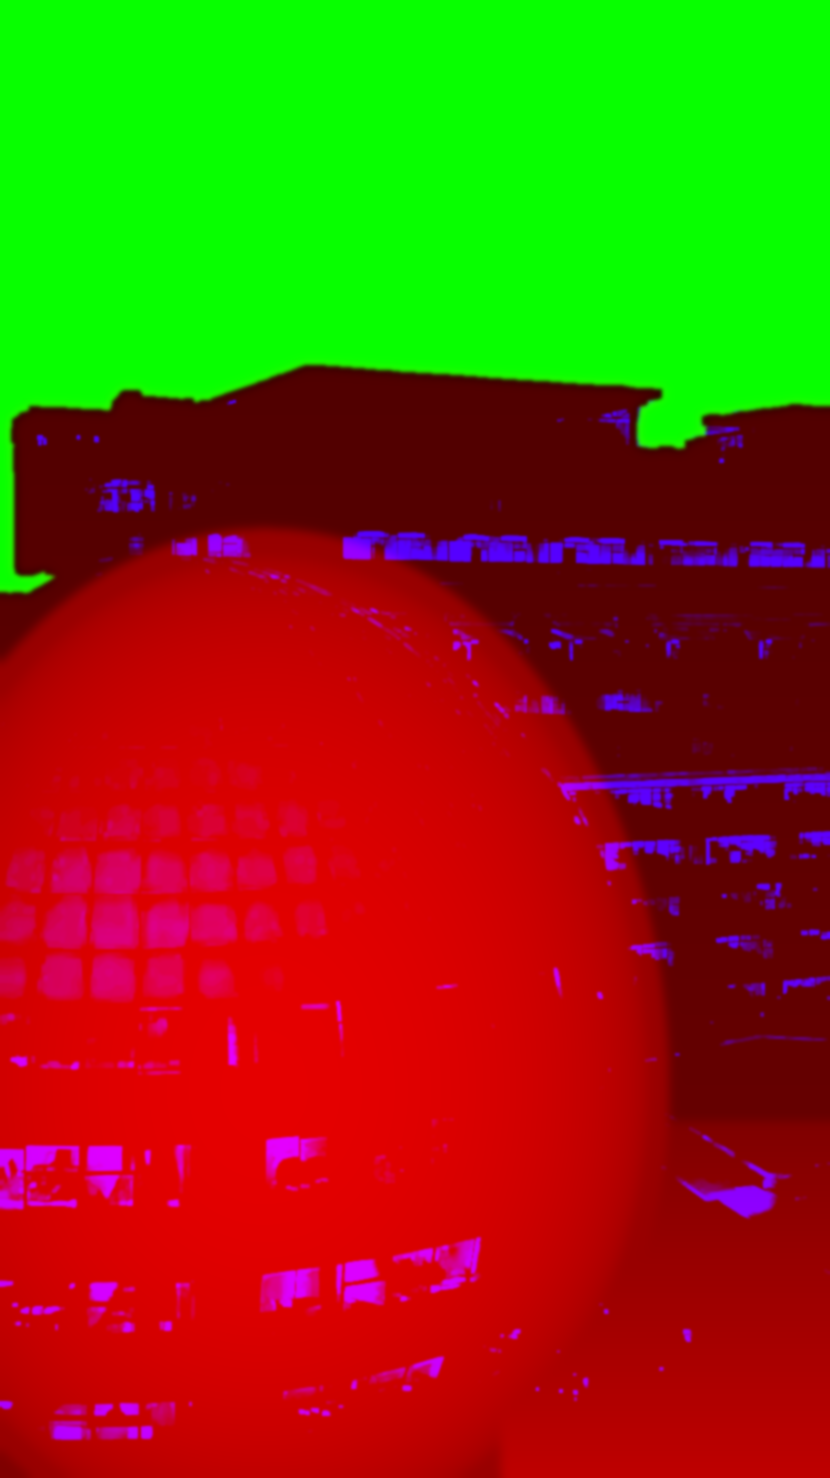
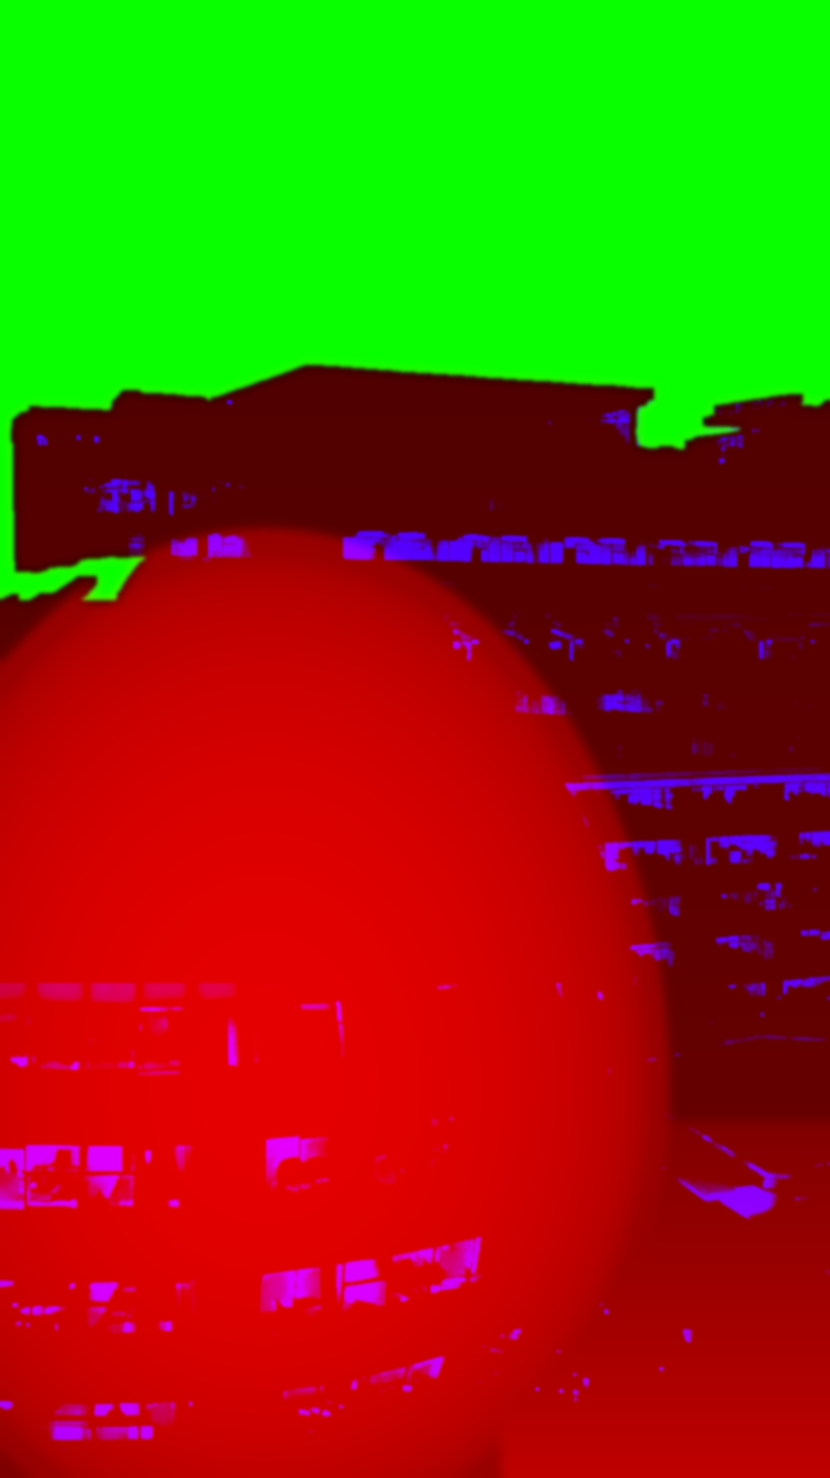
Dome background: cleaner, sharper photo (deblocked before upscaling), no rim ring, no magnifying zoom, polished colour grade and gradient side fill

diff --git a/frontend/components/DomeHero.tsx b/frontend/components/DomeHero.tsx
@@ -26,7 +26,7 @@ void main(){ vPos = (p * 0.5 + 0.5) * uRes; vPos.y = uRes.y - vPos.y; gl_Positio
 const FS = `precision highp float;
 varying vec2 vPos;
 uniform sampler2D tPhoto, tMaps, tDome, tBlur;
-uniform vec4 uRect; uniform vec2 uCam, uClick, uDomeC;
+uniform vec4 uRect; uniform vec2 uRes, uCam, uClick, uDomeC;
 uniform float uTime, uTheme, uHover, uOpen, uWave, uClickT, uZoom, uWide, uAniso;
 float hash(vec2 p){ return fract(sin(dot(p, vec2(127.1, 311.7))) * 43758.5453); }
 float noise(vec2 p){ vec2 i = floor(p), f = fract(p); f = f * f * (3.0 - 2.0 * f);
@@ -42,8 +42,11 @@ void main(){
     uv = q + uCam * (dep - 0.38) * (1.0 + uOpen * dm);
   }
   // side fill: blurred photo, graded navy (dark) or pale grey (light)
-  vec3 fill = texture2D(tBlur, clamp(uv, 0.0, 1.0)).rgb;
-  fill = mix(fill * vec3(0.32, 0.4, 0.58) * 0.6 + vec3(0.02, 0.035, 0.07), mix(fill, vec3(0.93, 0.95, 0.965), 0.72), uTheme);
+  float vy = clamp(vPos.y / uRes.y, 0.0, 1.0);
+  vec3 blurC = texture2D(tBlur, clamp(uv, 0.0, 1.0)).rgb;
+  vec3 fd = mix(vec3(0.043, 0.078, 0.141), vec3(0.106, 0.165, 0.267), smoothstep(0.0, 0.7, vy));   // #0B1424 -> #1B2A44
+  vec3 fl = mix(vec3(0.867, 0.898, 0.933), vec3(0.765, 0.816, 0.871), smoothstep(0.0, 0.7, vy));   // #DDE5EE -> #C3D0DE
+  vec3 fill = mix(mix(fd, blurC * vec3(0.5, 0.6, 0.8), 0.18), mix(fl, blurC, 0.12), uTheme);
   fill *= 1.0 - 0.25 * uOpen;
   if (uv.x < 0.0 || uv.x > 1.0 || uv.y < 0.0 || uv.y > 1.0) { gl_FragColor = vec4(fill, 1.0); return; }
 
@@ -55,31 +58,32 @@ void main(){
   vec3 mn = min(c, min(min(n, s), min(e, w))), mx = max(c, max(max(n, s), max(e, w)));
   vec3 amp = sqrt(clamp(min(mn, 1.0 - mx) / max(mx, vec3(1e-4)), 0.0, 1.0));
   vec3 wg = -amp / mix(8.0, 5.0, 0.42);
-  c = clamp((c + (n + s + e + w) * wg) / (1.0 + 4.0 * wg), 0.0, 1.0);
+  vec3 c0 = c;
+  c = mix(c0, clamp((c + (n + s + e + w) * wg) / (1.0 + 4.0 * wg), 0.0, 1.0), 0.55);
 
   vec3 m = texture2D(tMaps, uv).rgb; float sky = m.g, win = m.b, dome = texture2D(tDome, uv).r;
   // clouds, sky only, +-10%
   float cl = fbm(uv * vec2(2.6, 5.2) + vec2(uTime * 0.012, uTime * 0.002));
   c *= 1.0 + sky * (cl - 0.5) * 0.4;
   // live grade: dark = blue hour, light = soft evening
-  vec3 dk = pow(c, vec3(1.12)) * vec3(0.86, 0.92, 1.06);
-  vec3 lt = c * 1.22 + 0.035; lt = mix(lt, vec3(dot(lt, vec3(0.3, 0.59, 0.11))), 0.1) * vec3(1.03, 1.0, 0.96);
-  c = mix(dk, lt, uTheme);
+  float L = dot(c, vec3(0.3, 0.59, 0.11));
+  vec3 sh = vec3(0.86, 0.94, 1.08), hi = vec3(1.06, 1.0, 0.93);                  // split tone
+  vec3 dk = pow(c, vec3(1.08)) * mix(sh, hi, smoothstep(0.25, 0.8, L));
+  dk = mix(dk, dk * dk * (3.0 - 2.0 * dk), 0.35);                               // soft S-curve
+  dk = mix(dk, mix(vec3(0.07, 0.11, 0.19), vec3(0.2, 0.28, 0.4), vy) + (dk - vec3(dot(dk, vec3(0.3, 0.59, 0.11)))) * 0.3, sky * 0.45);
+  vec3 lt = c * 1.18 + 0.04; lt = mix(lt, vec3(dot(lt, vec3(0.3, 0.59, 0.11))), 0.08) * mix(vec3(0.97, 0.99, 1.03), vec3(1.04, 1.0, 0.95), smoothstep(0.3, 0.85, L));
+  lt = mix(lt, mix(vec3(0.84, 0.88, 0.93), vec3(0.76, 0.81, 0.87), vy), sky * 0.4);
+  c = clamp(mix(dk, lt, uTheme), 0.0, 1.0);
   // windows breathe, each at its own pace (4-12 s)
   vec3 amber = vec3(1.0, 0.72, 0.47);
-  vec2 cell = floor(uv * vec2(70.0, 124.0)); float h = hash(cell);
+  float h = noise(uv * vec2(38.0, 66.0));                                   // smooth, so no square patches
   float br = 0.5 + 0.5 * sin(6.2832 * (uTime / (4.0 + 8.0 * h) + h * 7.0));
   c += amber * win * (mix(0.5, 0.2, uTheme) * (0.3 + 0.7 * br) + 0.45 * uOpen);
   // light band across the dome every ~20 s
   float band = uv.x * 0.7 + uv.y, pos = fract(uTime / 20.0) * 2.6 - 0.8, bd = (band - pos) / 0.06;
   c += vec3(0.9, 0.95, 1.0) * exp(-bd * bd) * dome * 0.16;
   // hover: brighter dome and a rim light on its outline
-  float gx = texture2D(tDome, uv + vec2(0.004, 0.0)).r - texture2D(tDome, uv - vec2(0.004, 0.0)).r;
-  float gy = texture2D(tDome, uv + vec2(0.0, 0.0025)).r - texture2D(tDome, uv - vec2(0.0, 0.0025)).r;
-  float rim = clamp(length(vec2(gx, gy)) * 1.6, 0.0, 1.0);
-  float hov = max(uHover, uOpen);
-  c *= 1.0 + 0.06 * hov * dome;
-  c += vec3(1.0, 0.93, 0.82) * rim * hov * 0.6;
+  c *= 1.0 + 0.06 * max(uHover, uOpen) * dome;
   // click: ripple across the dome, glass panels flash while the dark lines stay dark
   float lum = dot(c, vec3(0.3, 0.59, 0.11)), panel = smoothstep(0.1, 0.24, lum);
   if (uClickT >= 0.0) {
@@ -93,7 +97,7 @@ void main(){
   c += amber * smoothstep(front, front + 0.03, uv.y) * dome * panel * 0.28 * (1.0 - 0.4 * uTheme);
   // focus: the rest of the scene dims
   c *= 1.0 - 0.25 * uOpen * (1.0 - dome);
-  float feather = uWide > 0.5 ? smoothstep(0.0, 0.16, uv.x) : 1.0;
+  float feather = uWide > 0.5 ? smoothstep(0.0, 0.22, uv.x) : 1.0;
   gl_FragColor = vec4(mix(fill, c, feather), 1.0);
 }`;
 
@@ -148,7 +152,7 @@ export default function DomeHero() {
     const layout = (): Rect => {
       const W = innerWidth, H = innerHeight, isWide = W / H > 0.85;
       if (isWide) {
-        const w = Math.min(Math.max(0.56 * W, H * ASPECT), IMG_W / dpr), h = w / ASPECT;
+        const w = Math.min(Math.max(0.56 * W, H * ASPECT), (IMG_W * 0.85) / dpr), h = w / ASPECT;
         const startY = Math.min(0, Math.max(H - h, -0.2 * h));
         const y = h > H ? startY + (H - h - startY) * smooth(0, H * 1.2, scrollY) : (H - h) / 2;
         return { x: W - w, y, w, h };
@@ -273,8 +277,7 @@ export default function DomeHero() {
       openV += (ot - openV) * Math.min(1, dt * (s.open ? 2.4 : 3.3));
       const since = s.clickAt > 0 ? (now - s.clickAt) / 1000 : -1;
       waveV = s.open ? (s.reduce ? 1 : ease(Math.min(1, Math.max(0, (since - 0.3) / 1.1)))) : Math.max(0, waveV - dt / 0.9);
-      const bounce = since >= 0 && since < 0.4 ? 1 + 0.015 * Math.sin(Math.PI * since / 0.4) : 1;
-      s.zoom = (s.reduce ? 1 : 1 + 0.12 * ease(openV)) * bounce;
+      s.zoom = 1;
       s.rect = layout();
       const r = s.rect;
       gl!.viewport(0, 0, el.width, el.height);
